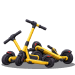
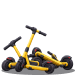
Ksuha Run fixes v2

diff --git a/src/screens/KsuhaRun.tsx b/src/screens/KsuhaRun.tsx
@@ -241,17 +241,15 @@ export default function KsuhaRun() {
       <canvas ref={canvasRef} onPointerDown={прыжок} className="absolute inset-0 h-full w-full" />
 
       {фаза === "playing" && (
-        <div className="pointer-events-none absolute inset-x-0 z-10 flex items-start justify-between px-4" style={{ top: safeTop + 12 }}>
-          <div>
-            <div className="text-[11px] font-semibold uppercase tracking-wider text-white/55">Препятствий</div>
-            <div className="text-4xl font-extrabold leading-none text-white drop-shadow">{худ.пройдено}</div>
-            <div className="mt-2 inline-flex items-center gap-1.5 rounded-full bg-black/35 px-2.5 py-1 text-sm font-bold text-white">
-              <img src="/assets/icons/slot-chip.png" alt="" className="h-4 w-4" />
-              {худ.монеты}
-            </div>
+        <div className="pointer-events-none absolute inset-x-0 z-10 flex flex-col items-center text-center" style={{ top: safeTop + 44 }}>
+          <div className="text-[11px] font-semibold uppercase tracking-wider text-white/55">Препятствий</div>
+          <div className="text-4xl font-extrabold leading-none text-white drop-shadow">{худ.пройдено}</div>
+          <div className="mt-2 inline-flex items-center gap-1.5 text-sm font-bold text-white">
+            <img src="/assets/icons/slot-chip.png" alt="" className="h-5 w-5" style={{ filter: "drop-shadow(0 0 6px rgba(255,255,255,0.9))" }} />
+            {худ.монеты}
           </div>
           {худ.лимит > 0 && (
-            <div className="rounded-full bg-black/35 px-3 py-1 text-sm font-bold tabular-nums text-white">
+            <div className="mt-1 text-sm font-bold tabular-nums text-white/80">
               {Math.floor(худ.осталось / 60)}:{String(худ.осталось % 60).padStart(2, "0")}
             </div>
           )}

diff --git a/src/config.ts b/src/config.ts
@@ -345,7 +345,7 @@ export const КСЮХА_РАН = {
 
   // ---------- ВИД ----------
   вид: {
-    параллакс: 0.02,      // скорость фона относительно скорости бега (меньше = медленнее)
+    параллакс: 0.2,       // скорость фона относительно скорости бега (меньше = медленнее)
     дорогаВысотаДоля: 0.42, // высота тайла дороги в долях высоты мира (ширина считается по пропорции картинки)
     дорожкаДоля: 0.265,   // где в Road.png начинается дорожка (138 из 521 строк)
   },

diff --git a/src/game/ksuhaRun.ts b/src/game/ksuhaRun.ts
@@ -302,8 +302,12 @@ export class КсюхаРанДвижок {
       const кач = Math.sin(this.время * 6 + м.x * 0.05) * 3;
       const р = К.монеты.размер;
       const img = м.emoji === "🪙" ? чипКартинка : подарокКартинка;
+      ctx.save();
+      ctx.shadowColor = "rgba(255,255,255,0.9)";
+      ctx.shadowBlur = 14;
       if (img && готова(img)) ctx.drawImage(img, м.x, зем - м.h - р / 2 + кач, р, р);
       else эмодзи(ctx, м.emoji, м.x + р / 2, зем - м.h + р / 2 + кач, р);
+      ctx.restore();
     }
 
     const бег = фаза === "playing" && !this.закончена;
